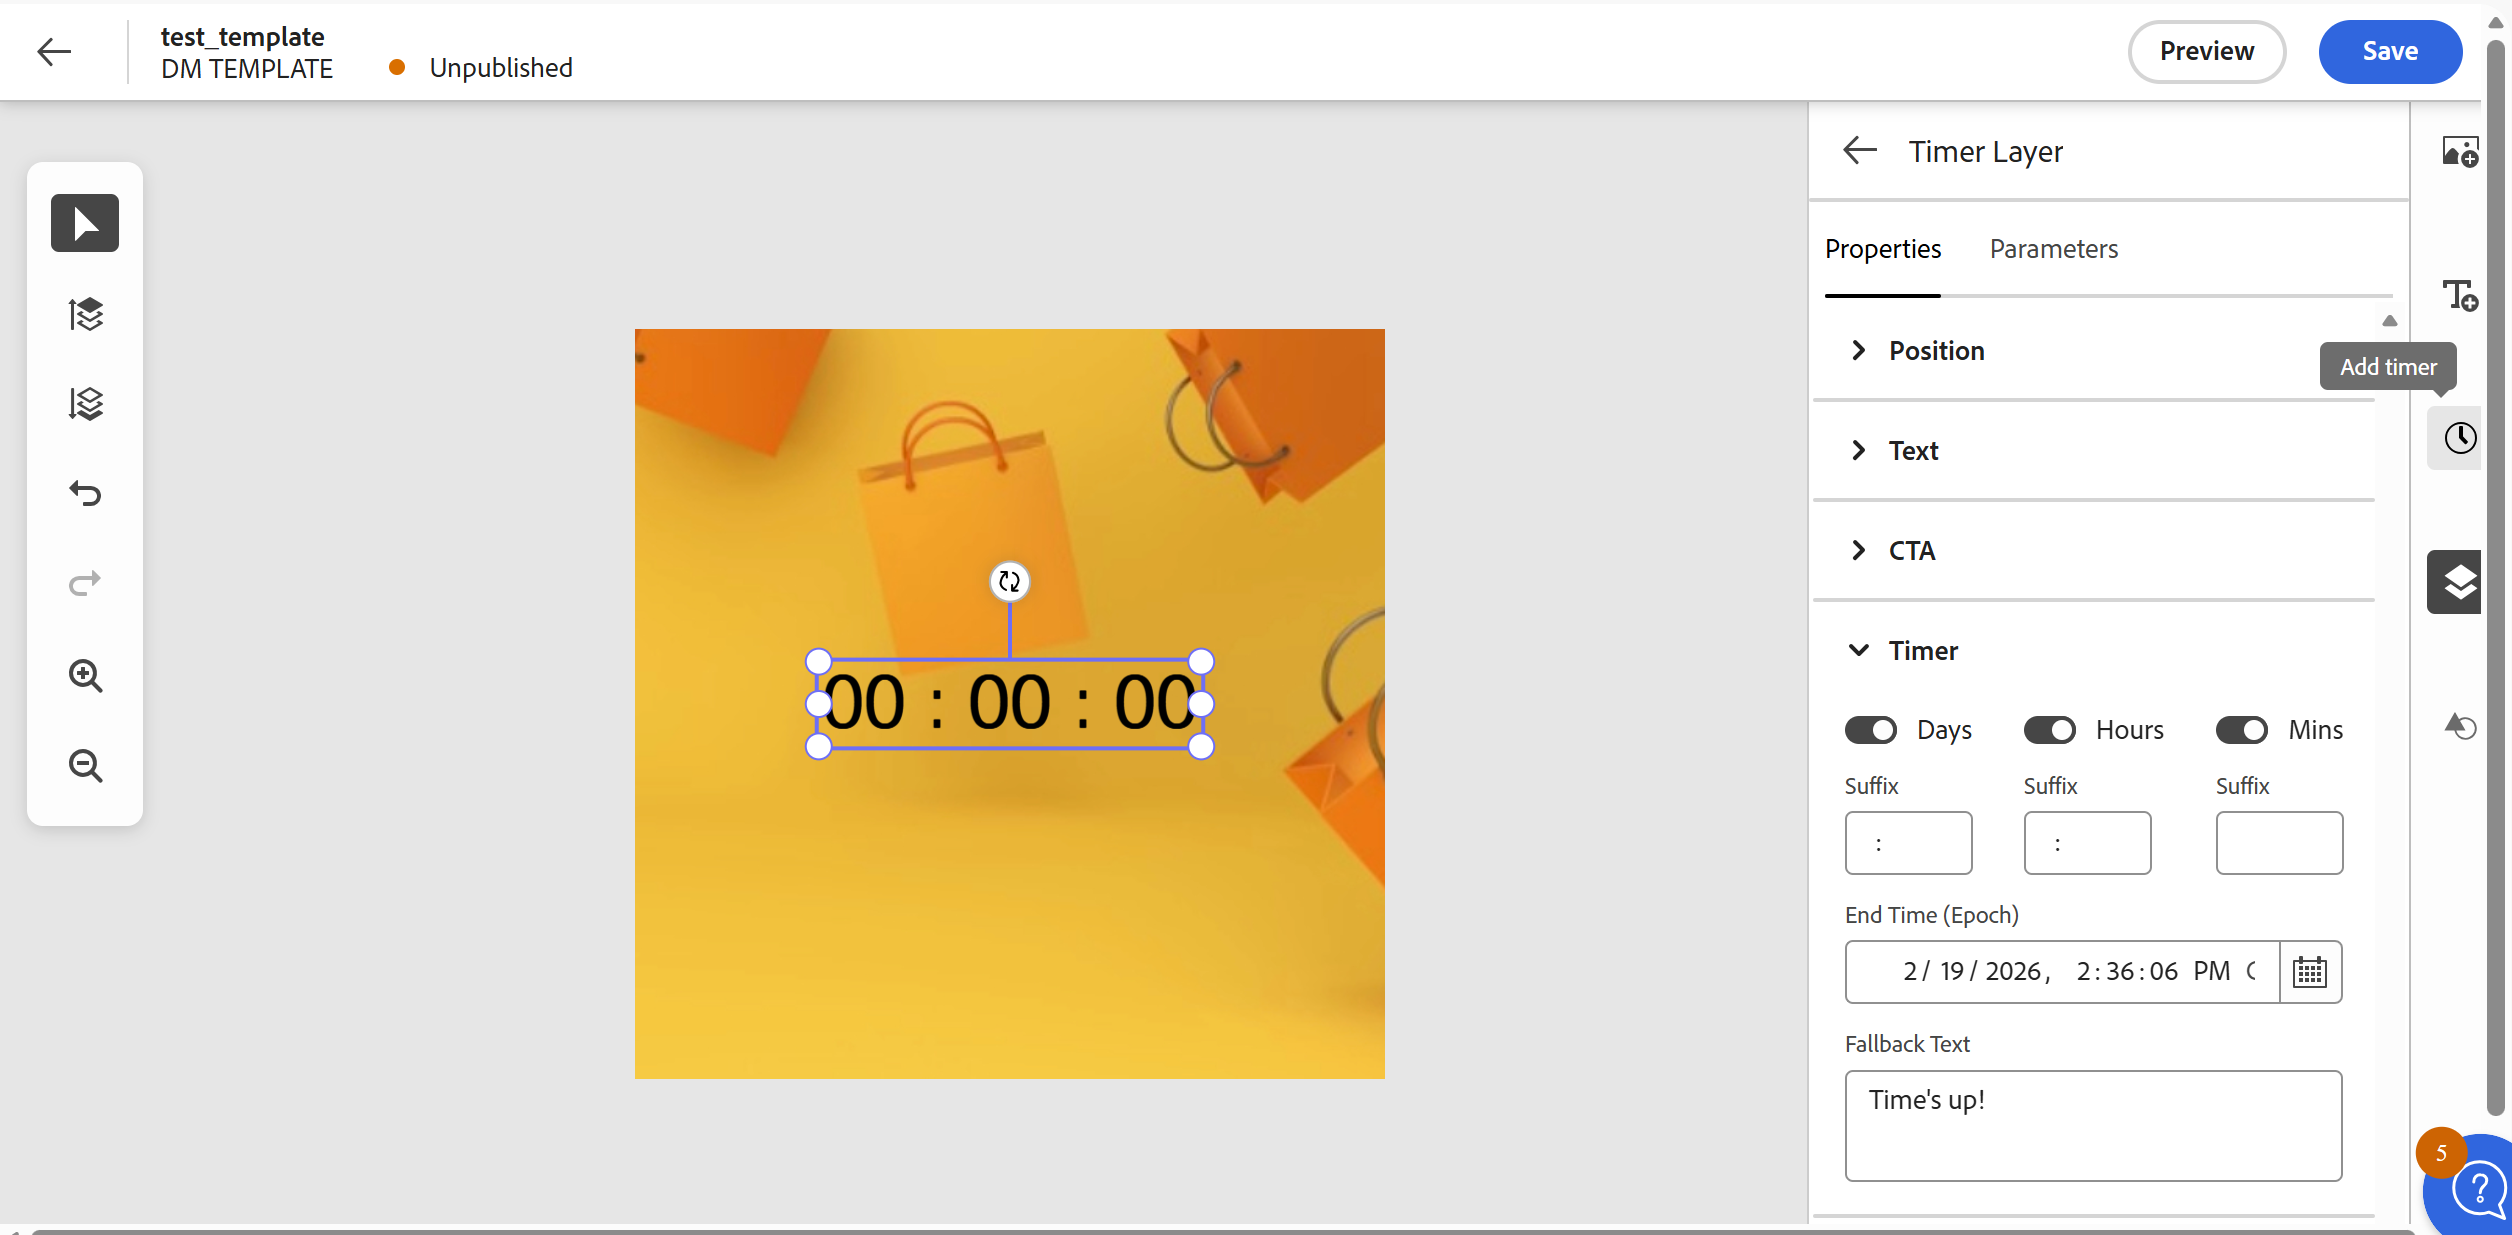
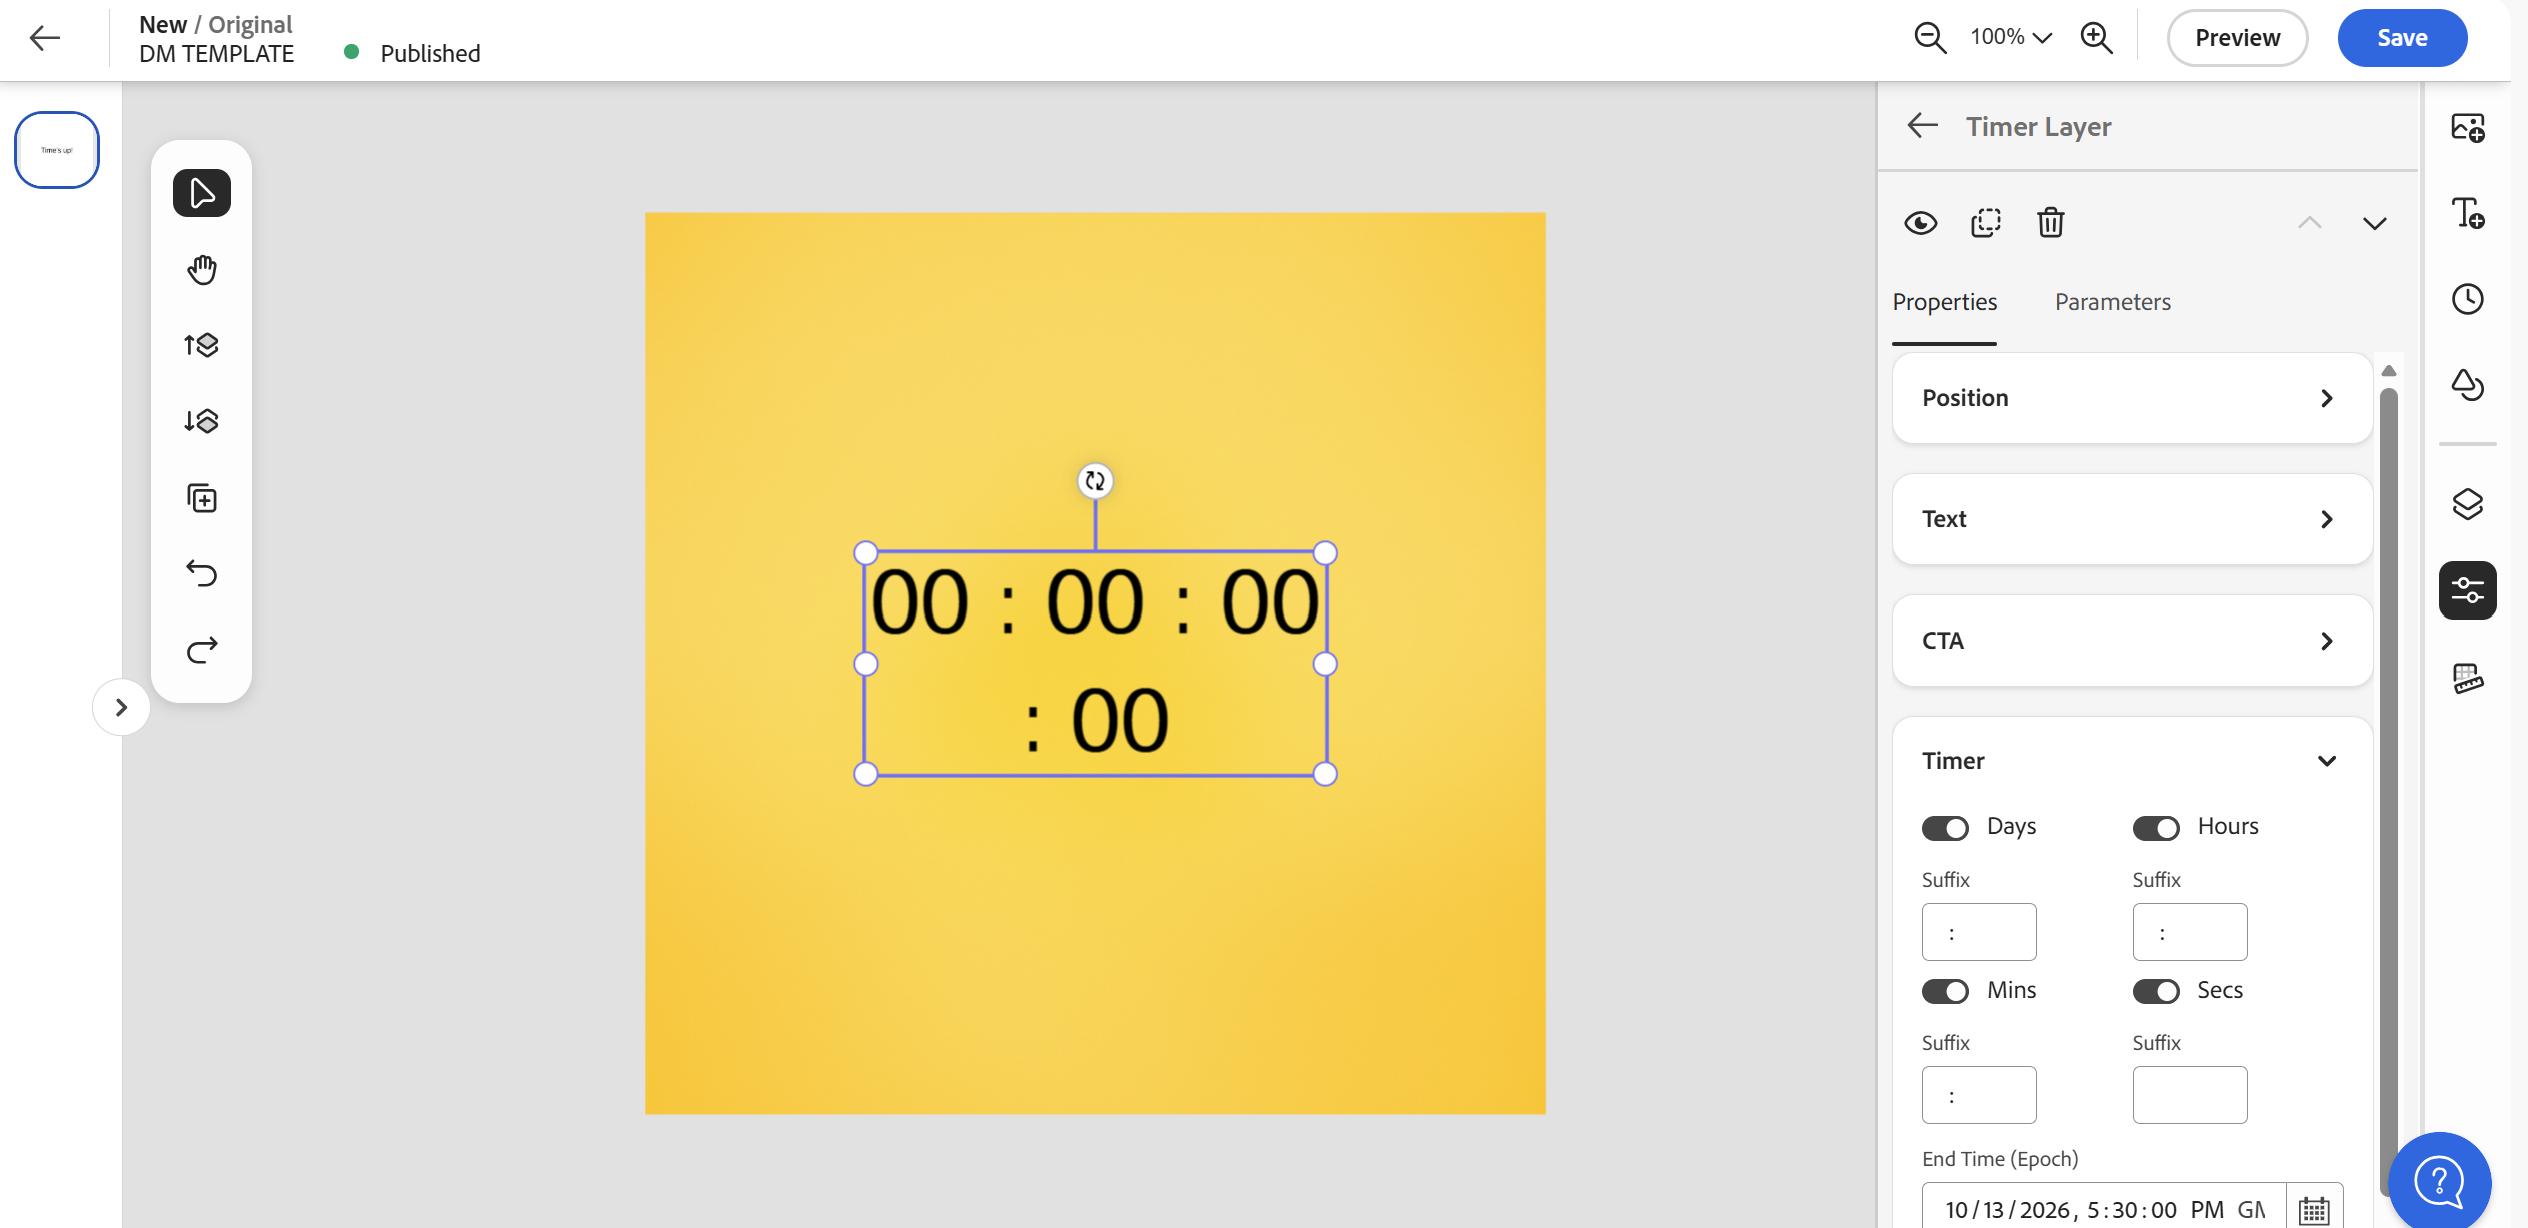
updated (#1925)

diff --git a/help/assets/dynamic-media/dynamic-media-templates.md b/help/assets/dynamic-media/dynamic-media-templates.md
@@ -72,7 +72,7 @@ Some of the key features include:
 * **[!DNL Dynamic Media] URL Support:** Use [!DNL Dynamic Media] URLs for templates, integrating personalized values from Adobe and non-Adobe applications.
 * **Layer Visibility Control:** Dynamically hide or show layers as needed.
 * **Smart Text Resizing:** Automatically adjust text size to fit designated areas.
-* **Countdown Timer Layer:** Add countdown timers to templates and configure their end time, display units (Days, Hours, Mins), suffix, fallback text, and CTA.
+* **Countdown Timer Layer:** Add countdown timers to templates and configure their end time, display units (Days, Hours, Mins, Secs), suffix, fallback text, and CTA.
 
 Some of the key benefits of [!DNL Dynamic Media] templates include:
 
@@ -323,11 +323,11 @@ Configure the countdown timer settings using the **[!UICONTROL Timer]** section 
 
 Use the following options:
 
-* **Days, Hours, Mins** – Enable or disable specific time units to control which values appear in the countdown timer. When enabled, the selected units display in the countdown timer.
+* **Days, Hours, Mins, Secs** – Enable or disable specific time units to control which values appear in the countdown timer. When enabled, the selected units display in the countdown timer.
 
 * **Suffix** – Specify additional text displayed after each enabled time unit. For example, you can use suffix values such as "d", "h", or "m", or separators such as ":" to customize the display format.
 
-* **End Time (Epoch)** – Specifies the exact expiration date and time of the countdown timer. The countdown updates dynamically and displays the remaining time until the specified end time.
+* **End Time (Epoch)** – Specifies the exact expiration date and time of the countdown timer. The countdown updates automatically in real time and displays the remaining time until the specified end time, including seconds when enabled.
 
 * **Fallback Text** – Specifies the text displayed after the countdown timer reaches its expiration time. For example, you can display a message such as "Time's up!" or "Offer expired".
 
